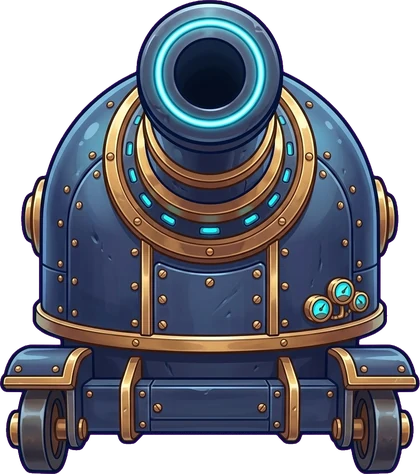
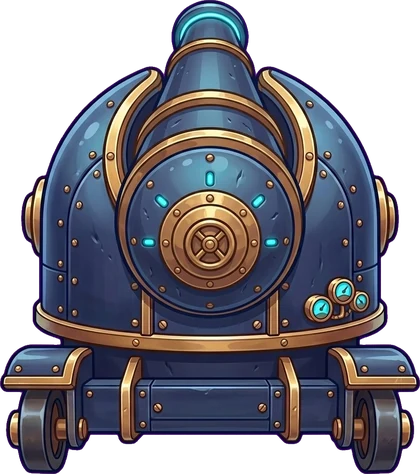
Sub version: cannon aims out to sea, 14% more water
The cannon is now seen from behind (breech toward us, barrel pointing at the
submarines). The bow window is ~14.6% bigger (frame and console trimmed,
rivets redrawn round with Nano Banana 2); subs, scale, cannon and the
console screen re-laid for it. Pips get a dark capsule off the rivets.

diff --git a/css/sub.css b/css/sub.css
@@ -18,20 +18,20 @@
 /* warning lamps: the two caged ceiling lamps flash red on a miss */
 #lamps i{position:absolute;top:-34px;width:260px;height:260px;margin-left:-130px;border-radius:50%;opacity:0;mix-blend-mode:screen;
   background:radial-gradient(circle,rgba(255,80,60,.95) 0 14%,rgba(255,60,40,.45) 32%,rgba(255,40,30,0) 66%)}
-#lamps .l{left:66px}#lamps .r{left:1854px}
-#lamps .edge{position:absolute;left:72px;top:145px;width:1776px;height:612px;border-radius:120px;opacity:0;box-shadow:inset 0 0 120px 24px rgba(255,50,40,.6)}   /* the window glows red */
+#lamps .l{left:60px;top:-60px}#lamps .r{left:1858px;top:-60px}
+#lamps .edge{position:absolute;left:66px;top:112px;width:1790px;height:802px;border-radius:130px;opacity:0;box-shadow:inset 0 0 120px 24px rgba(255,50,40,.6)}   /* the window glows red */
 
 /* the console display: dialogue appears here */
-#screen::before{content:"";position:absolute;left:412px;top:904px;width:1096px;height:166px;border-radius:30px;
+#screen::before{content:"";position:absolute;left:412px;top:952px;width:1096px;height:122px;border-radius:30px;
   background:linear-gradient(#253c5c,#14263e);box-shadow:0 10px 26px rgba(0,8,24,.55),inset 0 2px 0 rgba(255,255,255,.18),inset 0 -3px 0 rgba(0,0,0,.35)}
-#screen::after{content:"";position:absolute;left:426px;top:916px;width:1068px;height:142px;border-radius:22px;
+#screen::after{content:"";position:absolute;left:426px;top:962px;width:1068px;height:102px;border-radius:22px;
   background:repeating-linear-gradient(rgba(127,242,255,.035) 0 2px,transparent 2px 5px),radial-gradient(120% 140% at 50% 0%,#123b66,#071d38 70%);
   border:3px solid #49dcff;box-shadow:0 0 18px rgba(73,220,255,.55),inset 0 0 26px rgba(73,220,255,.22)}
-.subview #comms{left:426px;top:916px;width:1068px;height:142px}
+.subview #comms{left:426px;top:962px;width:1068px;height:102px}
 .subview #portrait{display:none}
 .subview #pName{left:26px;top:-20px;border-radius:12px;padding:6px 18px 4px;box-shadow:0 3px 0 rgba(0,0,0,.25)}
-.subview #caption{left:0;top:0;width:100%;height:100%;max-width:none;min-height:0;box-sizing:border-box;padding:22px 40px 10px;border:none;border-radius:22px;background:none;box-shadow:none;
-  display:flex;align-items:center;font:600 36px/1.25 Baloo,sans-serif}
+.subview #caption{left:0;top:0;width:100%;height:100%;max-width:none;min-height:0;box-sizing:border-box;padding:16px 40px 6px;border:none;border-radius:22px;background:none;box-shadow:none;
+  display:flex;align-items:center;font:600 32px/1.2 Baloo,sans-serif}
 .subview #comms.riya #pName{background:#ffc04d}
 
 /* Meera (left) and Riya (right) at their stations, in front of the console; the speaker lights up */
@@ -46,17 +46,18 @@
 .subview #scaleBack{left:98px!important;width:1724px!important}
 .subview #rule{left:1170px;top:166px;width:640px}
 .subview #btnSpeak{left:528px;top:34px}   /* clear of the right-hand ceiling lamp */
+.subview #pips{top:40px;padding:10px 14px;border-radius:30px;background:rgba(4,20,44,.88);border:2px solid rgba(88,226,255,.55);box-shadow:0 4px 12px rgba(0,8,24,.45)}   /* off the frame rivets */
 
 /* idle console screen: a slow sonar trace until someone speaks */
-#scope{position:absolute;left:426px;top:916px;width:1068px;height:142px;border-radius:22px;overflow:hidden;pointer-events:none}
+#scope{position:absolute;left:426px;top:962px;width:1068px;height:102px;border-radius:22px;overflow:hidden;pointer-events:none}
 #scope svg{position:absolute;left:0;top:0;width:100%;height:100%}
-#scope .lbl2{position:absolute;right:26px;bottom:12px;font:700 20px/1 Fredoka,sans-serif;letter-spacing:3px;color:#49dcff;opacity:.55}
+#scope .lbl2{position:absolute;right:24px;bottom:9px;font:700 20px/1 Fredoka,sans-serif;letter-spacing:3px;color:#49dcff;opacity:.55}
 
-/* the bow cannon: outside the glass, front-facing; its wheels ride the console rail (hidden behind it) */
-#cannon{position:absolute;left:0;top:668px;width:210px;height:237px;margin-left:-105px;pointer-events:none;transform-origin:50% 100%;filter:drop-shadow(0 6px 10px rgba(0,12,34,.45))}
+/* the bow cannon: outside the glass, seen from behind (it aims out to sea); its wheels ride the console rail (hidden behind it) */
+#cannon{position:absolute;left:0;top:712px;width:230px;height:260px;margin-left:-115px;pointer-events:none;transform-origin:50% 100%;filter:drop-shadow(0 6px 10px rgba(0,12,34,.45))}
 #cannon img{display:block;width:100%;height:100%}
-#cannon i{position:absolute;left:50%;top:38px;border-radius:50%;pointer-events:none}
-#cannon .ring{width:70px;height:70px;margin:-35px 0 0 -35px;box-shadow:0 0 16px 6px rgba(73,220,255,.65),inset 0 0 12px 4px rgba(73,220,255,.5);opacity:.35}
+#cannon i{position:absolute;left:50%;top:13px;border-radius:50%;pointer-events:none}   /* the barrel's far end (5 % down the sprite) */
+#cannon .ring{width:66px;height:30px;margin:-15px 0 0 -33px;box-shadow:0 0 16px 6px rgba(73,220,255,.65),inset 0 0 12px 4px rgba(73,220,255,.5);opacity:.35}
 #cannon .flash{width:180px;height:180px;margin:-90px 0 0 -90px;background:radial-gradient(circle,#fff,rgba(201,251,255,.85) 28%,rgba(73,220,255,0) 68%);opacity:0;mix-blend-mode:screen}
 
 /* torpedo leaving the bow tube */

diff --git a/js/cockpit.js b/js/cockpit.js
@@ -17,14 +17,15 @@
 
   /* ---- console screen: a slow sonar trace while nobody is talking (dialogue appears on the same screen) ---- */
   const scope = $('#scope'), comms = $('#comms');
-  scope.innerHTML = '<svg viewBox="0 0 1064 142" preserveAspectRatio="none"><path d="M0 71 H1064" stroke="rgba(73,220,255,.18)" stroke-width="2"/>' +
+  const SW = scope.clientWidth || 1068, SH = scope.clientHeight || 102, MID = SH / 2;
+  scope.innerHTML = `<svg viewBox="0 0 ${SW} ${SH}" preserveAspectRatio="none"><path d="M0 ${MID} H${SW}" stroke="rgba(73,220,255,.18)" stroke-width="2"/>` +
     '<path id="trace" fill="none" stroke="#49dcff" stroke-width="3" stroke-linejoin="round" opacity=".7"/></svg><span class="lbl2">SONAR</span>';
   const trace = $('#trace');
   gsap.ticker.add(t => {
     const talk = +gsap.getProperty(comms, 'opacity'); scope.style.opacity = (1 - talk) * .9;
     if (talk > .95 || SD.paused) return;
     const ph = (t * .35) % 1.3 - .15; let d = '';
-    for (let x = 0; x <= 1064; x += 8) { const u = x / 1064, k = Math.exp(-Math.pow((u - ph) / .035, 2)); d += (x ? ' L' : 'M') + x + ' ' + (71 - Math.sin(u * 90) * 34 * k - Math.sin(u * 13 + t * 2) * 3).toFixed(1); }
+    for (let x = 0; x <= SW; x += 8) { const u = x / SW, k = Math.exp(-Math.pow((u - ph) / .035, 2)); d += (x ? ' L' : 'M') + x + ' ' + (MID - Math.sin(u * 90) * MID * .55 * k - Math.sin(u * 13 + t * 2) * 3).toFixed(1); }
     trace.setAttribute('d', d);
   });
 
@@ -32,7 +33,7 @@
      the scale to the column of the submarine you tap, so it lines up with that number, then fires straight ahead.
      Home is under 0; it glides back there between missions. ---- */
   const cn = $('#cannon'), cflash = cn.querySelector('.flash'), cring = cn.querySelector('.ring');
-  const MUZZLE_Y = 668 + .159 * 237;                 // stage y of the muzzle ring (sub.css: top + 15.9 % of the height)
+  const ccs = getComputedStyle(cn), MUZZLE_Y = parseFloat(ccs.top) + .05 * parseFloat(ccs.height);   // the barrel's far end (5 % down the sprite)
   const C = { x: X(0) }, place = () => gsap.set(cn, { x: C.x });
   place();
   gsap.to(cring, { opacity: .9, duration: 1.1, yoyo: true, repeat: -1, ease: 'sine.inOut' });

diff --git a/sub.html b/sub.html
@@ -64,7 +64,7 @@
 <script src="js/gsap.min.js"></script>
 <script src="js/script.js"></script>
 <script src="js/layout_sub.js"></script>
-<script>window.WORLD_DEFAULTS = { SUB_Y: 410, SUB_ROW: -105, SIG_Y1: 212, SIG_Y2: 280, SCALE_DY: 60 };   /* cockpit: subs out in the water, the scale low on the glass */</script>
+<script>window.WORLD_DEFAULTS = { SUB_Y: 440, SUB_ROW: -105, SIG_Y1: 200, SIG_Y2: 268, SCALE_DY: 100 };   /* cockpit: subs out in the water, the scale low on the glass */</script>
 <script src="assets/vo/vo_manifest.js"></script>
 <script src="js/core.js"></script>
 <script src="js/world.js"></script>

diff --git a/README.md b/README.md
@@ -34,9 +34,9 @@ python3 tools/make_voices.py       # makes every line that has no wav yet
 - Without recorded files the game falls back to the browser's voice (en-IN when the computer has one), then to reading time.
 
 ## Submarine version (`sub.html`)
-The camera is inside the submarine, looking out through the bow window (`assets/img/cockpit.webp`, the window glass is transparent).
+The camera is inside the submarine, looking out through the big bow window (`assets/img/cockpit.webp`, the window glass is transparent; glass y 112–914).
 - The enemy submarines are out in the water; the navigation scale sits low on the glass, flat and evenly spaced (the same −8 … +8). Dotted sonar lines join each submarine to its number.
-- The bow cannon (`assets/img/cannon.webp`, front-facing, made with Nano Banana 2) rides the console rail under the scale. Tap a submarine and it slides along to that submarine's column (it lines up with the number), then fires straight ahead: recoil, muzzle flash, and the torpedo runs away from us (it shrinks) behind the scale to the target. Home is under 0; it glides back there between missions. The cockpit jolts on launch and hit; a hit submarine sinks behind the scale.
+- The bow cannon (`assets/img/cannon.webp`, made with Nano Banana 2) is seen from behind, aiming out to sea, and rides the console rail under the scale. Tap a submarine and it slides along to that submarine's column (it lines up with the number), then fires straight ahead: recoil, muzzle flash, and the torpedo runs away from us (it shrinks) behind the scale to the target. Home is under 0; it glides back there between missions. The cockpit jolts on launch and hit; a hit submarine sinks behind the scale.
 - A miss: the cannon lines up under the wrong submarine and judders (no shot), the two ceiling lamps flash red and the window edge glows red.
 - Meera (left) and Riya (right) stand at their stations; whoever speaks plays their talking sheet and lights up. Dialogue appears on the console screen, which shows a slow sonar trace when nobody is talking.
 - Level 3 pair buttons sit high in the window, above the submarines.
